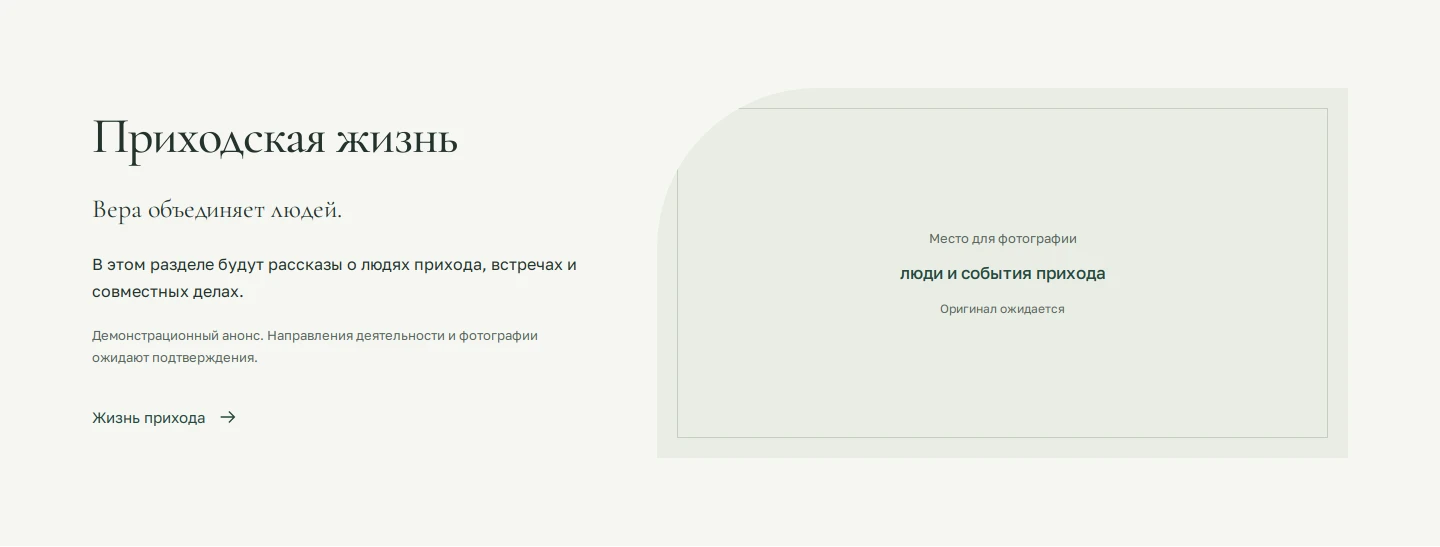
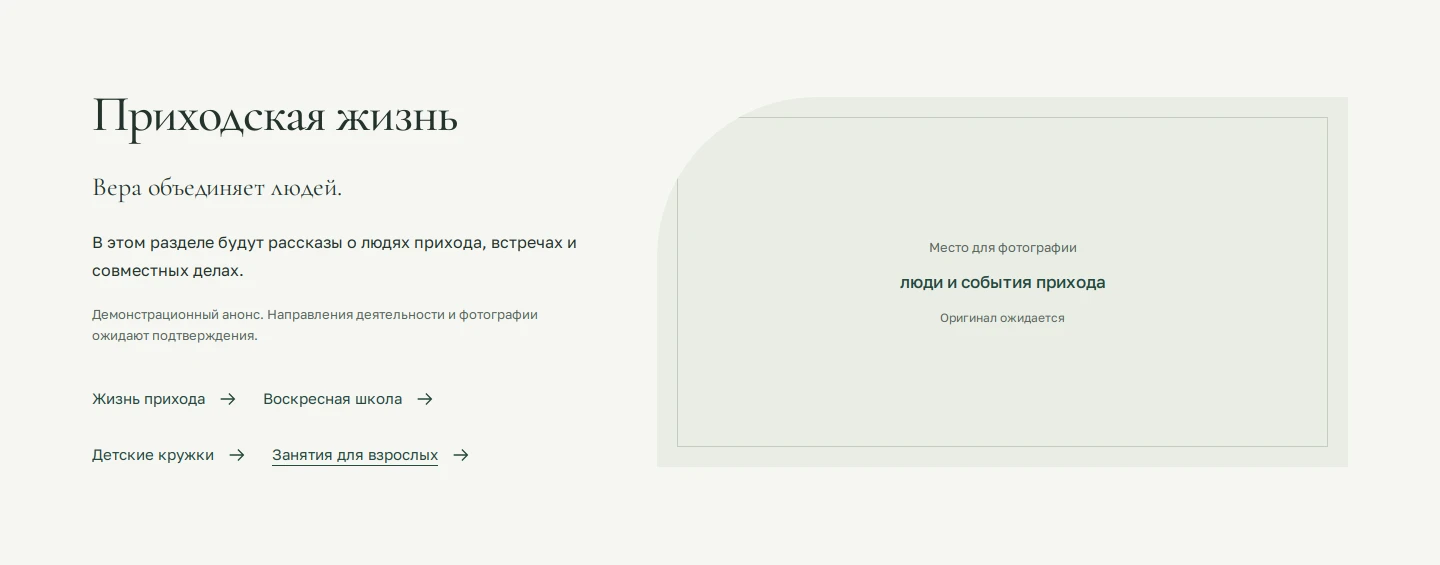
Add four parish life links and record approved design direction

diff --git a/index.html b/index.html
@@ -7,7 +7,7 @@
 <section id="news" class="section news-section"><div class="container"><div class="section-heading"><div><h2>Новости и события</h2></div><button type="button" class="text-link" data-page="Все новости" data-path="pages/news.html">Все новости<svg class="arrow" viewBox="0 0 24 24" aria-hidden="true"><path d="M4 12h15m-6-6 6 6-6 6"/></svg></button></div><p class="demo-note">Демонстрационная композиция: материалы и даты будут добавлены после подтверждения.</p><div class="news-layout"><article class="news-item"><div class="media-placeholder news-media" role="img" aria-label="Место для фотографии: событие прихода. Оригинал ожидается"><span class="media-line" aria-hidden="true"></span><span class="media-caption">Место для фотографии<br><strong>событие прихода</strong><small>Оригинал ожидается</small></span></div><div class="news-copy"><h3>Новость прихода</h3><p>Здесь будут заголовок и краткий анонс подтверждённого материала прихода.</p><button type="button" class="text-link" data-page="Посмотреть пример" data-path="pages/news-article.html">Посмотреть пример<svg class="arrow" viewBox="0 0 24 24" aria-hidden="true"><path d="M4 12h15m-6-6 6 6-6 6"/></svg></button></div></article><article class="news-item"><div class="media-placeholder news-media" role="img" aria-label="Место для фотографии: встреча в храме. Оригинал ожидается"><span class="media-line" aria-hidden="true"></span><span class="media-caption">Место для фотографии<br><strong>встреча в храме</strong><small>Оригинал ожидается</small></span></div><div class="news-copy"><h3>Анонс события</h3><p>Здесь будут заголовок и краткий анонс подтверждённого материала прихода.</p><button type="button" class="text-link" data-page="Посмотреть пример" data-path="pages/news-article.html">Посмотреть пример<svg class="arrow" viewBox="0 0 24 24" aria-hidden="true"><path d="M4 12h15m-6-6 6 6-6 6"/></svg></button></div></article><article class="news-item"><div class="media-placeholder news-media" role="img" aria-label="Место для фотографии: приходская жизнь. Оригинал ожидается"><span class="media-line" aria-hidden="true"></span><span class="media-caption">Место для фотографии<br><strong>приходская жизнь</strong><small>Оригинал ожидается</small></span></div><div class="news-copy"><h3>Фоторепортаж</h3><p>Здесь будут заголовок и краткий анонс подтверждённого материала прихода.</p><button type="button" class="text-link" data-page="Посмотреть пример" data-path="pages/news-article.html">Посмотреть пример<svg class="arrow" viewBox="0 0 24 24" aria-hidden="true"><path d="M4 12h15m-6-6 6 6-6 6"/></svg></button></div></article></div></div></section>
 <section id="about" class="section about-section"><div class="container"><div class="row align-items-center g-5"><div class="col-md-6 about-art"><div class="media-placeholder about-media" role="img" aria-label="Место для фотографии: архитектура Никольского храма. Оригинал ожидается"><span class="media-line" aria-hidden="true"></span><span class="media-caption">Место для фотографии<br><strong>архитектура Никольского храма</strong><small>Оригинал ожидается</small></span></div></div><div class="col-md-6 about-copy"><h2>Храм, в котором<br>встречаются эпохи</h2><p>Никольский храм расположен у входа на Рогожское кладбище в Москве. В его архитектуре соединяются мотивы русского зодчества XVII века и традиции XIX столетия.</p><p>Шатровая колокольня, своды и декоративные детали сохраняют неповторимый облик храма.</p><button type="button" class="text-link" data-page="Познакомиться с храмом" data-path="pages/about.html">Познакомиться с храмом<svg class="arrow" viewBox="0 0 24 24" aria-hidden="true"><path d="M4 12h15m-6-6 6 6-6 6"/></svg></button><p class="source-note">По материалам действующего сайта прихода.</p></div></div></div></section>
 <section id="shrines" class="section shrine-section"><div class="container"><div class="section-heading"><div><h2>Святыни храма</h2></div><button type="button" class="text-link" data-page="Все святыни" data-path="pages/shrines.html">Все святыни<svg class="arrow" viewBox="0 0 24 24" aria-hidden="true"><path d="M4 12h15m-6-6 6 6-6 6"/></svg></button></div><div class="shrine-layout"><article class="shrine-item"><div class="media-placeholder shrine-media" role="img" aria-label="Место для фотографии: икона · Святитель Николай «Приснодействующий». Оригинал ожидается"><span class="media-line" aria-hidden="true"></span><span class="media-caption">Место для фотографии<br><strong>икона · Святитель Николай «Приснодействующий»</strong><small>Оригинал ожидается</small></span></div><div><h3>Святитель Николай «Приснодействующий»</h3><p>Особо чтимая икона святителя Николая.</p><button type="button" class="text-link" data-page="Об иконе" data-path="pages/shrine.html">Об иконе<svg class="arrow" viewBox="0 0 24 24" aria-hidden="true"><path d="M4 12h15m-6-6 6 6-6 6"/></svg></button></div></article><article class="shrine-item"><div class="media-placeholder shrine-media" role="img" aria-label="Место для фотографии: икона · Божия Матерь «Троеручица». Оригинал ожидается"><span class="media-line" aria-hidden="true"></span><span class="media-caption">Место для фотографии<br><strong>икона · Божия Матерь «Троеручица»</strong><small>Оригинал ожидается</small></span></div><div><h3>Божия Матерь «Троеручица»</h3><p>Икона Божией Матери в одноимённом приделе.</p><button type="button" class="text-link" data-page="Об иконе" data-path="pages/shrine.html">Об иконе<svg class="arrow" viewBox="0 0 24 24" aria-hidden="true"><path d="M4 12h15m-6-6 6 6-6 6"/></svg></button></div></article><article class="shrine-item"><div class="media-placeholder shrine-media" role="img" aria-label="Место для фотографии: икона · Божия Матерь «Феодоровская». Оригинал ожидается"><span class="media-line" aria-hidden="true"></span><span class="media-caption">Место для фотографии<br><strong>икона · Божия Матерь «Феодоровская»</strong><small>Оригинал ожидается</small></span></div><div><h3>Божия Матерь «Феодоровская»</h3><p>Икона, описанная в истории храма.</p><button type="button" class="text-link" data-page="Об иконе" data-path="pages/shrine.html">Об иконе<svg class="arrow" viewBox="0 0 24 24" aria-hidden="true"><path d="M4 12h15m-6-6 6 6-6 6"/></svg></button></div></article></div></div></section>
-<section id="community" class="section community-section"><div class="container"><div class="community-layout"><div class="community-copy"><h2>Приходская жизнь</h2><p class="lead">Вера объединяет людей.</p><p>В этом разделе будут рассказы о людях прихода, встречах и совместных делах.</p><p class="demo-note">Демонстрационный анонс. Направления деятельности и фотографии ожидают подтверждения.</p><button type="button" class="text-link" data-page="Жизнь прихода" data-path="pages/community.html">Жизнь прихода<svg class="arrow" viewBox="0 0 24 24" aria-hidden="true"><path d="M4 12h15m-6-6 6 6-6 6"/></svg></button></div><div class="media-placeholder community-media" role="img" aria-label="Место для фотографии: люди и события прихода. Оригинал ожидается"><span class="media-line" aria-hidden="true"></span><span class="media-caption">Место для фотографии<br><strong>люди и события прихода</strong><small>Оригинал ожидается</small></span></div></div></div></section>
+<section id="community" class="section community-section"><div class="container"><div class="community-layout"><div class="community-copy"><h2>Приходская жизнь</h2><p class="lead">Вера объединяет людей.</p><p>В этом разделе будут рассказы о людях прихода, встречах и совместных делах.</p><p class="demo-note">Демонстрационный анонс. Направления деятельности и фотографии ожидают подтверждения.</p><nav class="community-links" aria-label="Направления приходской жизни"><button type="button" class="text-link" data-page="Жизнь прихода" data-path="pages/community.html">Жизнь прихода<svg class="arrow" viewBox="0 0 24 24" aria-hidden="true"><path d="M4 12h15m-6-6 6 6-6 6"/></svg></button><button type="button" class="text-link" data-page="Воскресная школа" data-path="pages/sunday-school.html">Воскресная школа<svg class="arrow" viewBox="0 0 24 24" aria-hidden="true"><path d="M4 12h15m-6-6 6 6-6 6"/></svg></button><button type="button" class="text-link" data-page="Детские кружки" data-path="pages/children-activities.html">Детские кружки<svg class="arrow" viewBox="0 0 24 24" aria-hidden="true"><path d="M4 12h15m-6-6 6 6-6 6"/></svg></button><button type="button" class="text-link" data-page="Занятия для взрослых" data-path="pages/adult-classes.html">Занятия для взрослых<svg class="arrow" viewBox="0 0 24 24" aria-hidden="true"><path d="M4 12h15m-6-6 6 6-6 6"/></svg></button></nav></div><div class="media-placeholder community-media" role="img" aria-label="Место для фотографии: люди и события прихода. Оригинал ожидается"><span class="media-line" aria-hidden="true"></span><span class="media-caption">Место для фотографии<br><strong>люди и события прихода</strong><small>Оригинал ожидается</small></span></div></div></div></section>
 <section id="contacts" class="section contacts-section"><div class="container"><div class="row g-5 align-items-center"><div class="col-md-5"><h2>Контакты и карта</h2><p class="lead">Москва<br>Рогожское кладбище</p><dl><dt>Точный адрес</dt><dd>Ожидает подтверждения</dd><dt>Телефон и часы работы</dt><dd>Ожидают подтверждения</dd></dl><button type="button" class="btn btn-outline-primary" data-page="Как добраться" data-path="pages/contacts.html">Как добраться</button></div><div class="col-md-7"><div class="map-placeholder"><span class="map-cross" aria-hidden="true"></span><strong>Яндекс Карта</strong><p>Демонстрационная заглушка</p><small>Подключим после проверки адреса.<br>Маркер не показывает реальное местоположение.</small></div></div></div></div></section></main>
 <footer><div class="container"><div class="footer-main"><div><p class="footer-brand">Храм святителя Николая<small>на Рогожском кладбище</small></p><p>Главная страница · макет на согласование</p></div><nav aria-label="Навигация в подвале"><a href="#news">Новости</a><a href="#about">О храме</a><button type="button" class="text-link" data-page="Духовенство" data-path="pages/clergy.html">Духовенство</button><a href="#community">Приходская жизнь</a><button type="button" class="text-link" data-page="Духовное образование" data-path="pages/education.html">Духовное образование</button><a href="#contacts">Контакты</a></nav><a class="text-link" href="concepts/index.html">К галерее концепций<svg class="arrow" viewBox="0 0 24 24" aria-hidden="true"><path d="M4 12h15m-6-6 6 6-6 6"/></svg></a></div><div class="footer-bottom"><span>Версия для согласования · Архитектурная элегантность</span><span>Знак предварительный, не официальный логотип.</span></div></div></footer>
 <dialog class="page-dialog" aria-labelledby="dialog-title"><div class="dialog-top"><p class="eyebrow">Предварительная концепция</p><button class="dialog-close" aria-label="Закрыть диалог" type="button">Закрыть</button></div><h2 id="dialog-title">Раздел в подготовке</h2><p>Эта внутренняя страница будет разработана после выбора дизайн-концепции. Расписание, формы, отправка записок и публикации пока не подключены.</p><p class="planned-path"></p><button class="btn btn-primary dialog-close" type="button">Понятно</button></dialog></body></html>

diff --git a/concepts/concept-01.html b/concepts/concept-01.html
@@ -7,7 +7,7 @@
 <section id="news" class="section news-section"><div class="container"><div class="section-heading"><div><h2>Новости и события</h2></div><button type="button" class="text-link" data-page="Все новости" data-path="pages/news.html">Все новости<svg class="arrow" viewBox="0 0 24 24" aria-hidden="true"><path d="M4 12h15m-6-6 6 6-6 6"/></svg></button></div><p class="demo-note">Демонстрационная композиция: материалы и даты будут добавлены после подтверждения.</p><div class="news-layout"><article class="news-item"><div class="media-placeholder news-media" role="img" aria-label="Место для фотографии: событие прихода. Оригинал ожидается"><span class="media-line" aria-hidden="true"></span><span class="media-caption">Место для фотографии<br><strong>событие прихода</strong><small>Оригинал ожидается</small></span></div><div class="news-copy"><h3>Новость прихода</h3><p>Здесь будут заголовок и краткий анонс подтверждённого материала прихода.</p><button type="button" class="text-link" data-page="Посмотреть пример" data-path="pages/news-article.html">Посмотреть пример<svg class="arrow" viewBox="0 0 24 24" aria-hidden="true"><path d="M4 12h15m-6-6 6 6-6 6"/></svg></button></div></article><article class="news-item"><div class="media-placeholder news-media" role="img" aria-label="Место для фотографии: встреча в храме. Оригинал ожидается"><span class="media-line" aria-hidden="true"></span><span class="media-caption">Место для фотографии<br><strong>встреча в храме</strong><small>Оригинал ожидается</small></span></div><div class="news-copy"><h3>Анонс события</h3><p>Здесь будут заголовок и краткий анонс подтверждённого материала прихода.</p><button type="button" class="text-link" data-page="Посмотреть пример" data-path="pages/news-article.html">Посмотреть пример<svg class="arrow" viewBox="0 0 24 24" aria-hidden="true"><path d="M4 12h15m-6-6 6 6-6 6"/></svg></button></div></article><article class="news-item"><div class="media-placeholder news-media" role="img" aria-label="Место для фотографии: приходская жизнь. Оригинал ожидается"><span class="media-line" aria-hidden="true"></span><span class="media-caption">Место для фотографии<br><strong>приходская жизнь</strong><small>Оригинал ожидается</small></span></div><div class="news-copy"><h3>Фоторепортаж</h3><p>Здесь будут заголовок и краткий анонс подтверждённого материала прихода.</p><button type="button" class="text-link" data-page="Посмотреть пример" data-path="pages/news-article.html">Посмотреть пример<svg class="arrow" viewBox="0 0 24 24" aria-hidden="true"><path d="M4 12h15m-6-6 6 6-6 6"/></svg></button></div></article></div></div></section>
 <section id="about" class="section about-section"><div class="container"><div class="row align-items-center g-5"><div class="col-md-6 about-art"><div class="media-placeholder about-media" role="img" aria-label="Место для фотографии: архитектура Никольского храма. Оригинал ожидается"><span class="media-line" aria-hidden="true"></span><span class="media-caption">Место для фотографии<br><strong>архитектура Никольского храма</strong><small>Оригинал ожидается</small></span></div></div><div class="col-md-6 about-copy"><h2>Храм, в котором<br>встречаются эпохи</h2><p>Никольский храм расположен у входа на Рогожское кладбище в Москве. В его архитектуре соединяются мотивы русского зодчества XVII века и традиции XIX столетия.</p><p>Шатровая колокольня, своды и декоративные детали сохраняют неповторимый облик храма.</p><button type="button" class="text-link" data-page="Познакомиться с храмом" data-path="pages/about.html">Познакомиться с храмом<svg class="arrow" viewBox="0 0 24 24" aria-hidden="true"><path d="M4 12h15m-6-6 6 6-6 6"/></svg></button><p class="source-note">По материалам действующего сайта прихода.</p></div></div></div></section>
 <section id="shrines" class="section shrine-section"><div class="container"><div class="section-heading"><div><h2>Святыни храма</h2></div><button type="button" class="text-link" data-page="Все святыни" data-path="pages/shrines.html">Все святыни<svg class="arrow" viewBox="0 0 24 24" aria-hidden="true"><path d="M4 12h15m-6-6 6 6-6 6"/></svg></button></div><div class="shrine-layout"><article class="shrine-item"><div class="media-placeholder shrine-media" role="img" aria-label="Место для фотографии: икона · Святитель Николай «Приснодействующий». Оригинал ожидается"><span class="media-line" aria-hidden="true"></span><span class="media-caption">Место для фотографии<br><strong>икона · Святитель Николай «Приснодействующий»</strong><small>Оригинал ожидается</small></span></div><div><h3>Святитель Николай «Приснодействующий»</h3><p>Особо чтимая икона святителя Николая.</p><button type="button" class="text-link" data-page="Об иконе" data-path="pages/shrine.html">Об иконе<svg class="arrow" viewBox="0 0 24 24" aria-hidden="true"><path d="M4 12h15m-6-6 6 6-6 6"/></svg></button></div></article><article class="shrine-item"><div class="media-placeholder shrine-media" role="img" aria-label="Место для фотографии: икона · Божия Матерь «Троеручица». Оригинал ожидается"><span class="media-line" aria-hidden="true"></span><span class="media-caption">Место для фотографии<br><strong>икона · Божия Матерь «Троеручица»</strong><small>Оригинал ожидается</small></span></div><div><h3>Божия Матерь «Троеручица»</h3><p>Икона Божией Матери в одноимённом приделе.</p><button type="button" class="text-link" data-page="Об иконе" data-path="pages/shrine.html">Об иконе<svg class="arrow" viewBox="0 0 24 24" aria-hidden="true"><path d="M4 12h15m-6-6 6 6-6 6"/></svg></button></div></article><article class="shrine-item"><div class="media-placeholder shrine-media" role="img" aria-label="Место для фотографии: икона · Божия Матерь «Феодоровская». Оригинал ожидается"><span class="media-line" aria-hidden="true"></span><span class="media-caption">Место для фотографии<br><strong>икона · Божия Матерь «Феодоровская»</strong><small>Оригинал ожидается</small></span></div><div><h3>Божия Матерь «Феодоровская»</h3><p>Икона, описанная в истории храма.</p><button type="button" class="text-link" data-page="Об иконе" data-path="pages/shrine.html">Об иконе<svg class="arrow" viewBox="0 0 24 24" aria-hidden="true"><path d="M4 12h15m-6-6 6 6-6 6"/></svg></button></div></article></div></div></section>
-<section id="community" class="section community-section"><div class="container"><div class="community-layout"><div class="community-copy"><h2>Приходская жизнь</h2><p class="lead">Вера объединяет людей.</p><p>В этом разделе будут рассказы о людях прихода, встречах и совместных делах.</p><p class="demo-note">Демонстрационный анонс. Направления деятельности и фотографии ожидают подтверждения.</p><button type="button" class="text-link" data-page="Жизнь прихода" data-path="pages/community.html">Жизнь прихода<svg class="arrow" viewBox="0 0 24 24" aria-hidden="true"><path d="M4 12h15m-6-6 6 6-6 6"/></svg></button></div><div class="media-placeholder community-media" role="img" aria-label="Место для фотографии: люди и события прихода. Оригинал ожидается"><span class="media-line" aria-hidden="true"></span><span class="media-caption">Место для фотографии<br><strong>люди и события прихода</strong><small>Оригинал ожидается</small></span></div></div></div></section>
+<section id="community" class="section community-section"><div class="container"><div class="community-layout"><div class="community-copy"><h2>Приходская жизнь</h2><p class="lead">Вера объединяет людей.</p><p>В этом разделе будут рассказы о людях прихода, встречах и совместных делах.</p><p class="demo-note">Демонстрационный анонс. Направления деятельности и фотографии ожидают подтверждения.</p><nav class="community-links" aria-label="Направления приходской жизни"><button type="button" class="text-link" data-page="Жизнь прихода" data-path="pages/community.html">Жизнь прихода<svg class="arrow" viewBox="0 0 24 24" aria-hidden="true"><path d="M4 12h15m-6-6 6 6-6 6"/></svg></button><button type="button" class="text-link" data-page="Воскресная школа" data-path="pages/sunday-school.html">Воскресная школа<svg class="arrow" viewBox="0 0 24 24" aria-hidden="true"><path d="M4 12h15m-6-6 6 6-6 6"/></svg></button><button type="button" class="text-link" data-page="Детские кружки" data-path="pages/children-activities.html">Детские кружки<svg class="arrow" viewBox="0 0 24 24" aria-hidden="true"><path d="M4 12h15m-6-6 6 6-6 6"/></svg></button><button type="button" class="text-link" data-page="Занятия для взрослых" data-path="pages/adult-classes.html">Занятия для взрослых<svg class="arrow" viewBox="0 0 24 24" aria-hidden="true"><path d="M4 12h15m-6-6 6 6-6 6"/></svg></button></nav></div><div class="media-placeholder community-media" role="img" aria-label="Место для фотографии: люди и события прихода. Оригинал ожидается"><span class="media-line" aria-hidden="true"></span><span class="media-caption">Место для фотографии<br><strong>люди и события прихода</strong><small>Оригинал ожидается</small></span></div></div></div></section>
 <section id="contacts" class="section contacts-section"><div class="container"><div class="row g-5 align-items-center"><div class="col-md-5"><h2>Контакты и карта</h2><p class="lead">Москва<br>Рогожское кладбище</p><dl><dt>Точный адрес</dt><dd>Ожидает подтверждения</dd><dt>Телефон и часы работы</dt><dd>Ожидают подтверждения</dd></dl><button type="button" class="btn btn-outline-primary" data-page="Как добраться" data-path="pages/contacts.html">Как добраться</button></div><div class="col-md-7"><div class="map-placeholder"><span class="map-cross" aria-hidden="true"></span><strong>Яндекс Карта</strong><p>Демонстрационная заглушка</p><small>Подключим после проверки адреса.<br>Маркер не показывает реальное местоположение.</small></div></div></div></div></section></main>
 <footer><div class="container"><div class="footer-main"><div><p class="footer-brand">Храм святителя Николая<small>на Рогожском кладбище</small></p><p>Предварительная дизайн-концепция 01</p></div><nav aria-label="Навигация в подвале"><a href="#news">Новости</a><a href="#about">О храме</a><button type="button" class="text-link" data-page="Духовенство" data-path="pages/clergy.html">Духовенство</button><a href="#community">Приходская жизнь</a><button type="button" class="text-link" data-page="Духовное образование" data-path="pages/education.html">Духовное образование</button><a href="#contacts">Контакты</a></nav><a class="text-link" href="index.html">К галерее концепций<svg class="arrow" viewBox="0 0 24 24" aria-hidden="true"><path d="M4 12h15m-6-6 6 6-6 6"/></svg></a></div><div class="footer-bottom"><span>Версия для согласования · Архитектурная элегантность</span><span>Знак предварительный, не официальный логотип.</span></div></div></footer>
 <dialog class="page-dialog" aria-labelledby="dialog-title"><div class="dialog-top"><p class="eyebrow">Предварительная концепция</p><button class="dialog-close" aria-label="Закрыть диалог" type="button">Закрыть</button></div><h2 id="dialog-title">Раздел в подготовке</h2><p>Эта внутренняя страница будет разработана после выбора дизайн-концепции. Расписание, формы, отправка записок и публикации пока не подключены.</p><p class="planned-path"></p><button class="btn btn-primary dialog-close" type="button">Понятно</button></dialog></body></html>

diff --git a/css/concepts.css b/css/concepts.css
@@ -26,3 +26,5 @@
 @media(max-width:575px){#primary-nav .nav-link-button{padding:12px 0}}
 .footer-main nav .text-link{padding:0;font-size:13px}.structure-review{padding:56px 0}.structure-review .hero-actions{margin-bottom:30px}.structure-links{display:flex;flex-wrap:wrap;gap:12px 28px;padding:20px 0 40px;font-size:14px}.structure-block{padding:40px 0;border-top:1px solid var(--line)}.structure-block h2{font-size:36px}.structure-block p{color:var(--muted)}.structure-shot{display:block;width:100%;height:auto;border:1px solid var(--line)}
 @media(max-width:575px){.structure-review{padding:32px 0}.structure-block{padding:28px 0}.structure-block h2{font-size:30px}}
+
+.concept-01 .community-links{display:flex;flex-wrap:wrap;align-items:flex-start;gap:12px 24px}.concept-01 .community-links .text-link{min-height:44px;max-width:100%}

diff --git a/specs/progress.md b/specs/progress.md
@@ -92,3 +92,8 @@ Diff копии hero: все требуемые подписи действий 
 Собраны `index.html` и `review/index.html`; галерея содержит переход ко всем экранам выбранного направления. Подвал синхронизирован с согласованной навигацией. Получены реальные скриншоты hero, новостей, истории, святынь, приходской жизни, контактов, подвала, всей страницы и мобильного макета в images/previews/homepage/.
 
 Playwright-проверка полной главной: 1440/1024/768/375/320 — нет горизонтального переполнения, один H1, все пять нижних секций, точный порядок меню, отсутствие JS-ошибок и битых ресурсов. Проверены меню, новые диалоги, Escape, расписание и якорь контактов. Структурный просмотр и галерея проверены на тех же ширинах. Выполнен просмотр скриншотов через view_image: композиция нижних экранов, последовательность блоков, типографика, палитра и подвал соответствуют концепции 01. Неподтверждённые фотографии/контакты по-прежнему явно обозначены; Pages не опубликованы.
+
+## Утверждение и ссылки прихода — 2026-10-08
+Пользователь утвердил остальной макет. До кода уточнены четыре перехода в блоке «Приходская жизнь». src в main содержит девять JPG; разрешение пользователя на использование зафиксировано, фото сейчас изучаются для следующего этапа. Публикация отдельно не запрошена.
+
+Реализованы четыре перехода в index.html и концепции 01. Playwright (Browser plugin отсутствует): обе страницы на 1440/1024/768/375/320 px без переполнения и JS-ошибок; каждый переход открывает соответствующий диалог подготовки, Escape закрывает его. Просмотрены desktop/mobile снимки блока, обновлены сохранённые снимки блока и всей главной. Остальные блоки и концепции 02/03 не менялись.

diff --git a/specs/assets.md b/specs/assets.md
@@ -12,3 +12,6 @@
 В hero нет ИИ-фото или фотографий другого храма. Медиа-заглушки — HTML/CSS с видимым уведомлением. Карта не имитирует действующий виджет: она подписана как демонстрационная. При поступлении оригиналов сохранять локальные WebP 480/800/1200px, picture/srcset, alt, fetchpriority=high для hero и lazy для секций.
 
 Скриншоты `images/previews/homepage/*.webp`: полная главная, мобильный вид и семь экранов. Источник — локальный index.html в Playwright; ресурсы проекта. Сняты и оптимизированы 2026-10-08.
+
+## Фотографии пользователя — 2026-10-08
+Источник: src в ветке main (коммит 856105e); девять JPG фотографий храма, пользователь прямо разрешил использовать их в дизайне. Просмотрены локально: внешние виды и интерьер. В текущей правке ссылок не интегрируются. Для первого экрана предварительный кандидат 5139376_1000.jpg (вертикальный вид храма), для блока истории — 4016.jpg (широкий внешний вид); финальное кадрирование проверить в макете. src/info.txt не содержит дополнительных сведений об авторстве.

diff --git a/specs/requirements.md b/specs/requirements.md
@@ -49,3 +49,6 @@ Hero: **слева** выразительный заголовок с засеч
 
 ## Сборка выбранной главной — 2026-10-08
 По запросу пользователя собрать все экраны концепции 01 в единую главную для оценки итоговой структуры. Объём: главная страница и просмотр её секций, без новых внутренних страниц. Согласованный порядок: hero → новости → о храме → святыни → приходская жизнь → контакты/карта → подвал.
+
+## Уточнение блока прихода — 2026-10-08
+Одиночный переход «Жизнь прихода» заменить группой из четырёх переходов в порядке: «Жизнь прихода», «Воскресная школа», «Детские кружки», «Занятия для взрослых». Остальная главная без изменений. Пользователь утвердил остальной макет и разрешил использовать фотографии храма из src в main; подбор и интеграция фото — следующий этап.

diff --git a/specs/design.md b/specs/design.md
@@ -71,3 +71,6 @@ Bootstrap 5.3.x, стандартная 12-колоночная сетка. Те
 
 ## Нижние экраны выбранной главной
 Сохраняются три редакционные карточки новостей; архитектурная фотография слева и история справа на светлой полосе; три карточки святынь; широкий блок приходской жизни; контактные данные слева и карта справа; тёмно-зелёный подвал. В подвале повторить согласованную структуру меню. Надзаголовков в секциях нет. Медиа и неподтверждённые данные остаются честно подписанными резервными областями.
+
+## Переходы приходской жизни — 2026-10-08
+Четыре текстовых перехода со стрелкой под существующим анонсом, с переносом и достаточными интервалами на узких экранах. Сохранить текущую композицию и остальные блоки.

diff --git a/specs/pages.md b/specs/pages.md
@@ -28,3 +28,6 @@
 
 ## Главная на согласование
 Полная выбранная главная: index.html. Структурный просмотр её блоков: review/index.html. Это семь последовательных экранов одной страницы, а не комплект внутренних страниц.
+
+## Направления прихода — 2026-10-08
+Главная содержит переходы: Жизнь прихода (pages/community.html), Воскресная школа (pages/sunday-school.html), Детские кружки (pages/children-activities.html), Занятия для взрослых (pages/adult-classes.html). До разработки внутренних страниц переходы показывают существующий диалог статуса. Названия направлений заданы пользователем; содержание ещё требуется.
